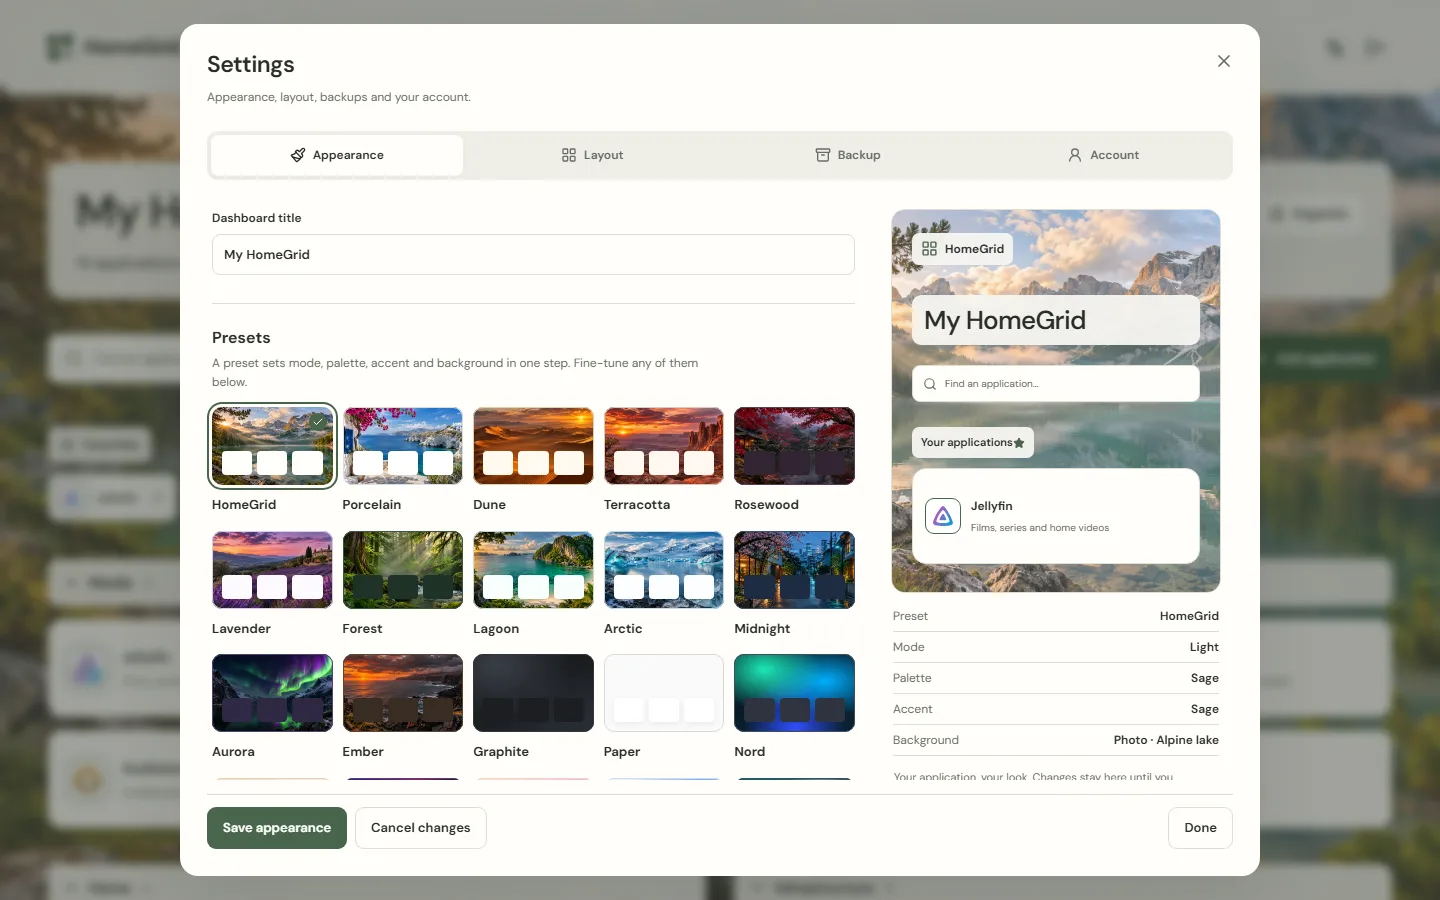
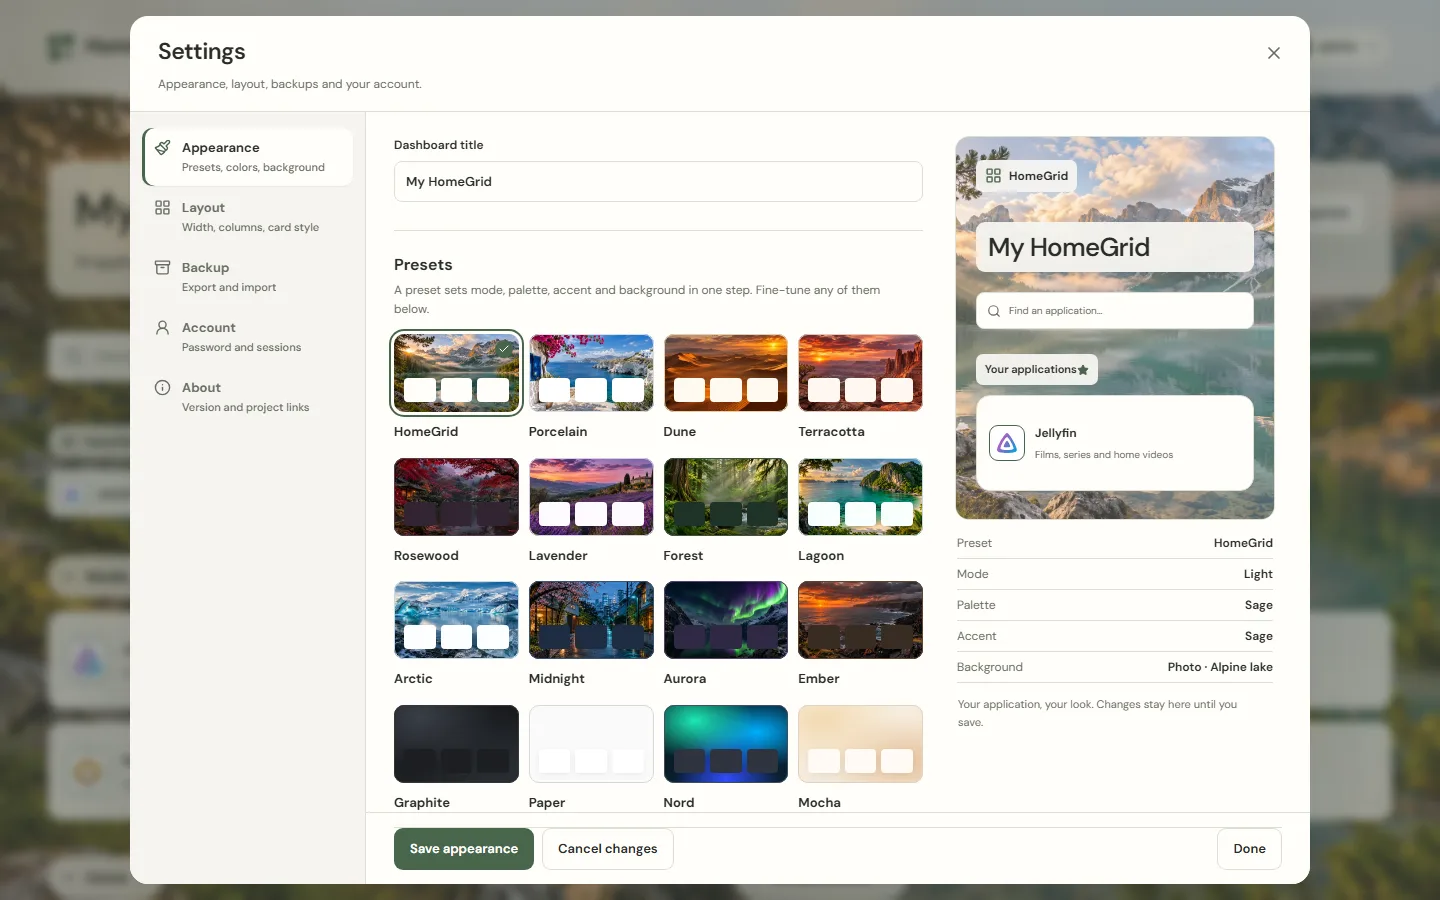
docs: refresh screenshots and add animated previews to the README
The screenshots predated the settings sheet and the account menu.

- Recapture the dashboard, add-application, appearance and mobile shots
  against the current UI, and add a dark-mode dashboard with the Aurora
  preset.
- Add a montage of presets, the color, background and layout settings and
  layout variants, about 1.5 s per scene with short crossfades. Presets
  come from frontend/src/themes.ts so the scenes follow the source.
- Record a short interaction tour (search, URL recognition, preset
  preview) with Playwright.
- Both animations are animated WebPs encoded with ffmpeg and live in
  docs/assets, so the website build does not ship them.
- The README leads with the montage, shows the tour after the feature
  list, gathers the screenshots in one section and mentions the settings
  sheet and account menu.

diff --git a/README.md b/README.md
@@ -10,7 +10,9 @@ Built with Go, React, and SQLite; packaged as one container.
 [Releases](https://github.com/bifrost0x/homegrid/releases) ·
 [Roadmap](ROADMAP.md) · [Security](SECURITY.md)
 
-![HomeGrid desktop dashboard](site/assets/dashboard-desktop.webp)
+![HomeGrid in quick succession: presets such as Aurora, Porcelain, Midnight
+and Nebula, the color, background and layout settings, and tiles, list,
+compact, custom accent and square-corner variants](docs/assets/themes-montage.webp)
 
 ## Start with Docker
 
@@ -62,16 +64,29 @@ and optional local source builds.
 - **Keep your configuration portable.** Export and import applications,
   categories and appearance as JSON, with an import preview and merge or replace
   choices. Use a full data-volume backup to preserve uploaded files and accounts.
+- **Manage it in one place.** Settings open as one sheet with sections for
+  appearance, layout, backup, your account and the installed version. The
+  account menu in the top bar jumps straight to each section.
+
+![HomeGrid tour: finding Grafana with Ctrl+K, adding an application that is
+recognized from its URL, and previewing appearance presets](docs/assets/product-tour.webp)
 
 Optional example cards are explicitly unconfigured: supply your own service URL
 before launching them. Screenshots show an example configuration.
 
 <details>
-<summary>Mobile and appearance previews</summary>
+<summary>Screenshots</summary>
 
-<img src="site/assets/dashboard-mobile.webp" alt="HomeGrid mobile dashboard" width="320">
+![HomeGrid dashboard in light mode with the alpine lake background](site/assets/dashboard-desktop.webp)
 
-![HomeGrid appearance settings](site/assets/appearance.webp)
+![HomeGrid dashboard in dark mode with the Aurora preset](site/assets/dashboard-dark.webp)
+
+![HomeGrid appearance settings with presets and a live preview](site/assets/appearance.webp)
+
+<p>
+<img src="site/assets/add-application.webp" alt="Add application dialog recognizing Gitea from its URL" width="320">
+<img src="site/assets/dashboard-mobile.webp" alt="HomeGrid dashboard on a phone" width="260">
+</p>
 
 </details>
 
